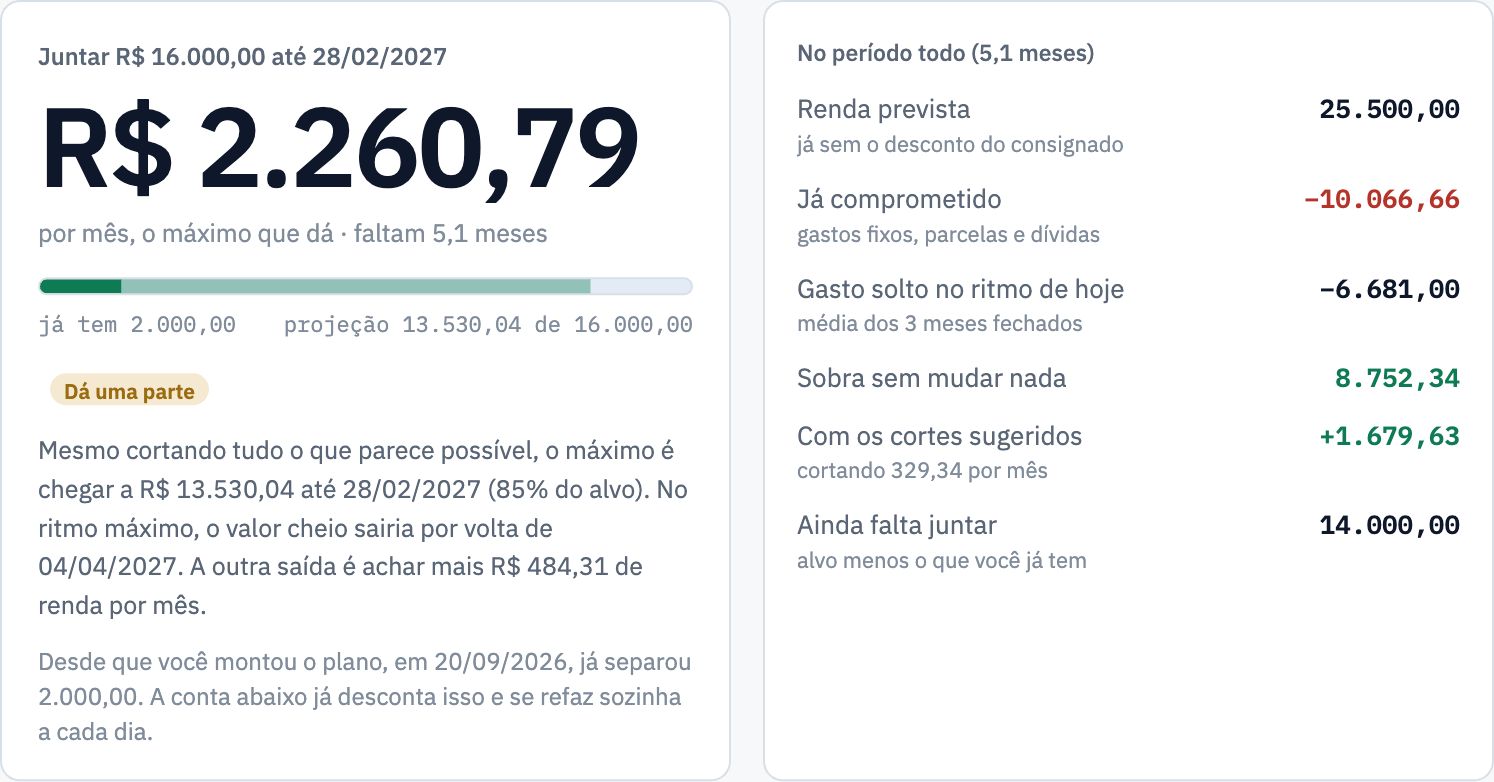
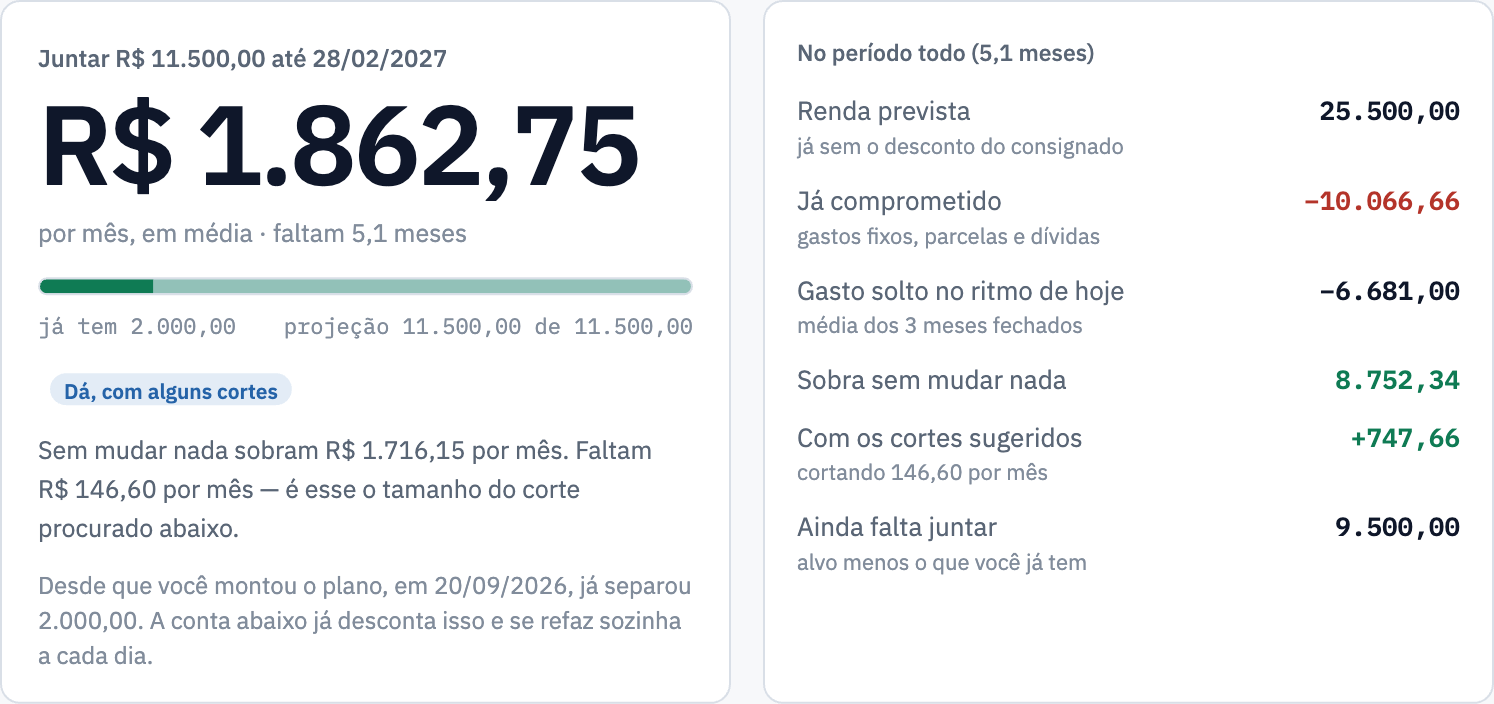
Plano: mês sem folga não repete o valor já separado
No mês a mês, quando o mês não sobra nada mas já teve uma separada, o
título passou a mostrar "já separou X" — e a linha de baixo repetia o
mesmo valor. Agora a repetição sai. Telas do manual refeitas num cenário
com cortes parciais, que ilustra melhor as barras.

diff --git a/manual.html b/manual.html
@@ -97,7 +97,7 @@ td.valor{font-family:var(--f-m);text-align:right;white-space:nowrap}
   <div class="sub">Manual de uso — controle de gastos por fala, extrato e fatura</div>
   <div class="meta">
     Endereço do app: https://rgbittencourt.github.io/caderneta/<br>
-    Setembro de 2026 · aplica-se à versão caderneta-v49 em diante
+    Setembro de 2026 · aplica-se à versão caderneta-v50 em diante
   </div>
 </header>
 
@@ -496,7 +496,7 @@ td.valor{font-family:var(--f-m);text-align:right;white-space:nowrap}
 
 <figure>
   <img src="manual/meta-plano-cortes.png" alt="Onde cortar, com a prova no histórico">
-  <figcaption><b>Onde cortar</b> não chuta: cada sugestão vem com a média da categoria e <b>o seu melhor mês</b> — a prova de que você já gastou aquilo. O corte nunca desce abaixo do seu melhor mês e respeita um limite por grupo do 50-30-20 (mais folgado nos Desejos, apertado nas Necessidades, zero no que é dívida ou gasto fixo).</figcaption>
+  <figcaption><b>Onde cortar</b> não chuta: cada sugestão vem com a média da categoria e <b>o seu melhor mês</b> — a prova de que você já gastou aquilo. O corte nunca desce abaixo do seu melhor mês e respeita um limite por grupo do 50-30-20 (mais folgado nos Desejos, apertado nas Necessidades, zero no que é dívida ou gasto fixo). Entram só as categorias necessárias para fechar a conta; logo abaixo, <i>Outras categorias</i> abre a lista do que ainda daria para cortar, se você quiser apertar mais.</figcaption>
 </figure>
 
 <div class="nota">

diff --git a/index.html b/index.html
@@ -3267,7 +3267,7 @@ function htmlPlano(){
       ' · comprometido '+fmtN(l.comp)+' · gasto do dia a dia '+fmtN(Math.max(0,l.flex-l.corte))+
       (l.corte>0?' (já com o corte de '+fmtN(l.corte)+')':'')+
       ' · dá para guardar até '+fmtN(Math.max(0,l.pode))+
-      (l.guardado?' · você já separou '+fmtN(l.guardado):'')+'</div>'+
+      (l.guardado&&!sobrando?' · você já separou '+fmtN(l.guardado):'')+'</div>'+
       (sobrando?'':'<div class="meter" style="margin-top:6px"><i style="width:'+p2+'%;background:var(--good)"></i></div>')+
       '</div>'; };
 

diff --git a/sw.js b/sw.js
@@ -1,6 +1,6 @@
 /* Caderneta — service worker: guarda o app no aparelho para abrir sem internet.
    Mude VERSAO a cada publicação para os aparelhos pegarem a versão nova. */
-const VERSAO = "caderneta-v49";
+const VERSAO = "caderneta-v50";
 const FONTES = "caderneta-fontes";
 const LIBS = "caderneta-libs-2";
 const APP = ["./", "./index.html", "./manifest.webmanifest", "./config.js",

diff --git a/CLAUDE.md b/CLAUDE.md
@@ -221,7 +221,7 @@ Primeira publicação num computador novo: o dono autoriza no navegador (Git Cre
 
 ## Situação e próximos passos
 
-- **Publicado:** `caderneta-v49` (27/09/2026). O que existe está descrito acima; os commits contam a ordem.
+- **Publicado:** `caderneta-v50` (27/09/2026). O que existe está descrito acima; os commits contam a ordem.
 - **O que o dono está fazendo:** carregando os extratos da conta corrente e as faturas dos cartões (Visa, Mastercard, Elo) de janeiro a setembro de 2026, todos em PDF, no MacBook Air, depois de usar *Recomeçar do zero*. O passo a passo está no README, em *Importar meses anteriores*.
 - **Documentos reais (15/09/2026):** o dono mandou, por iniciativa própria, o extrato da conta corrente do BB de jan/2026 e uma fatura Ourocard Mastercard. Até a v14 o extrato vinha com descrições erradas (lote e documento no lugar do nome) e o Rende Fácil contado como gasto e entrada; a fatura lia taxas de juros como compras. Os formatos estão descritos acima e foram conferidos com os dois PDFs, que **não** estão no repositório. A fatura recebida só tinha anuidade e desconto; compras parceladas no formato do BB foram testadas com linhas simuladas. Se outro documento falhar, peça a *amostra sem dados*.
 - **Consignados:** ele tem dois — um pagando a 4ª de 12 em setembro de 2026, outro com a 1ª parcela em 01/10/2026. Depois do Recomeçar, precisam ser cadastrados de novo, com a data real do empréstimo e 0 já descontadas, antes de importar janeiro.
